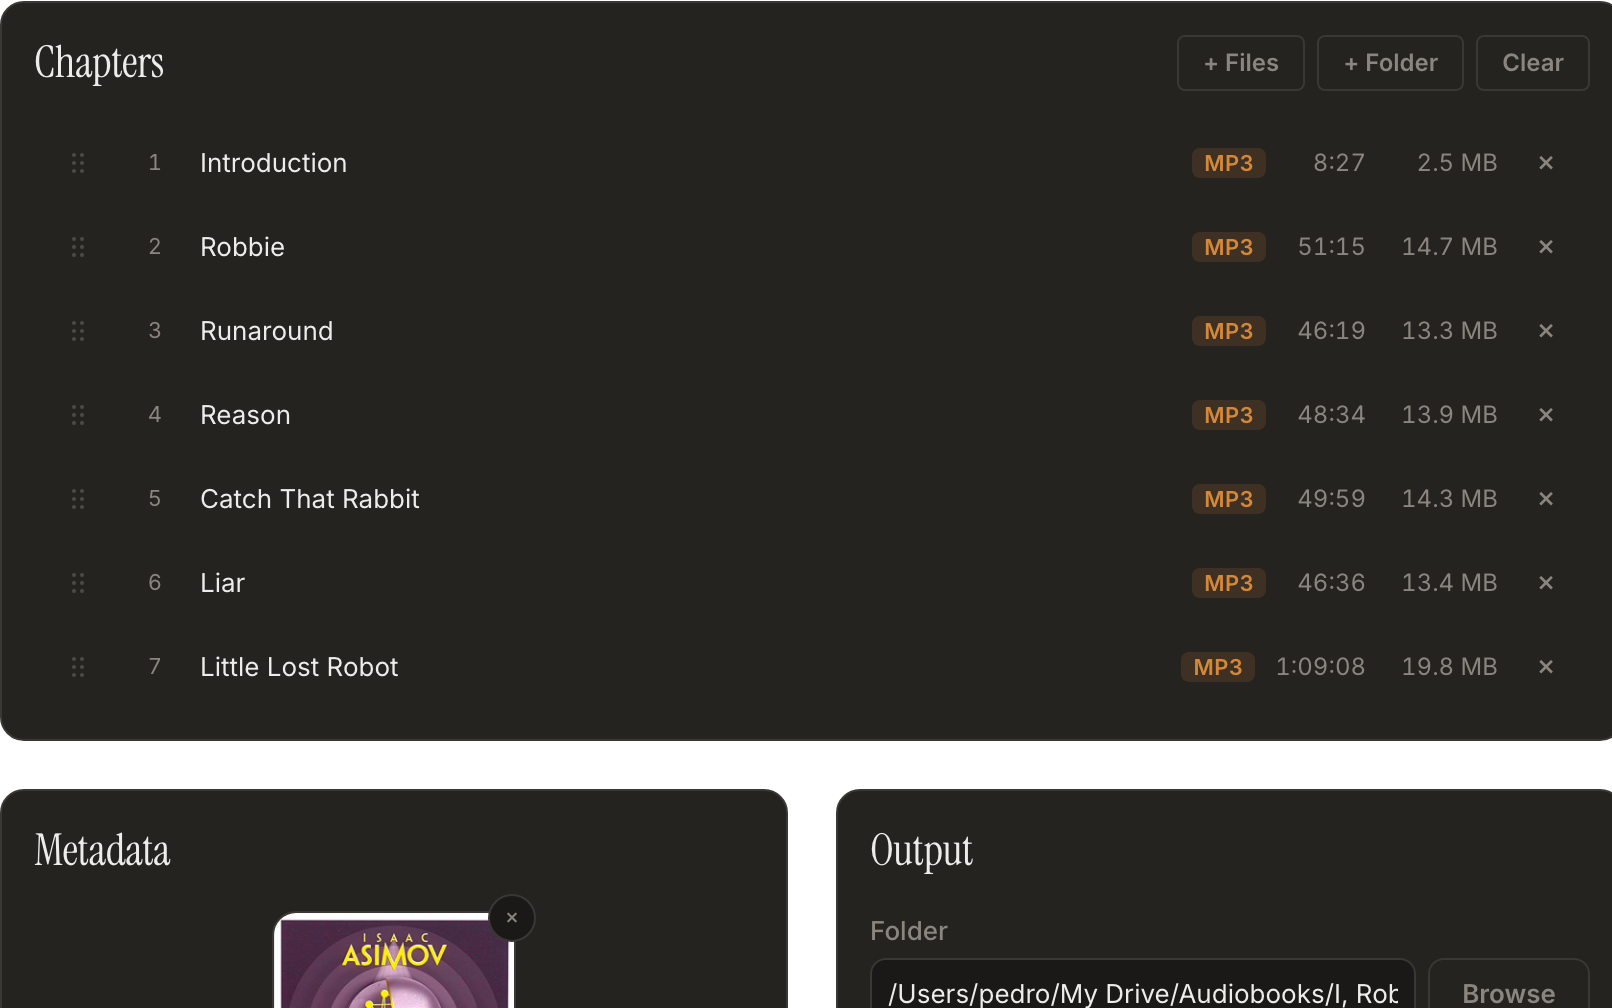
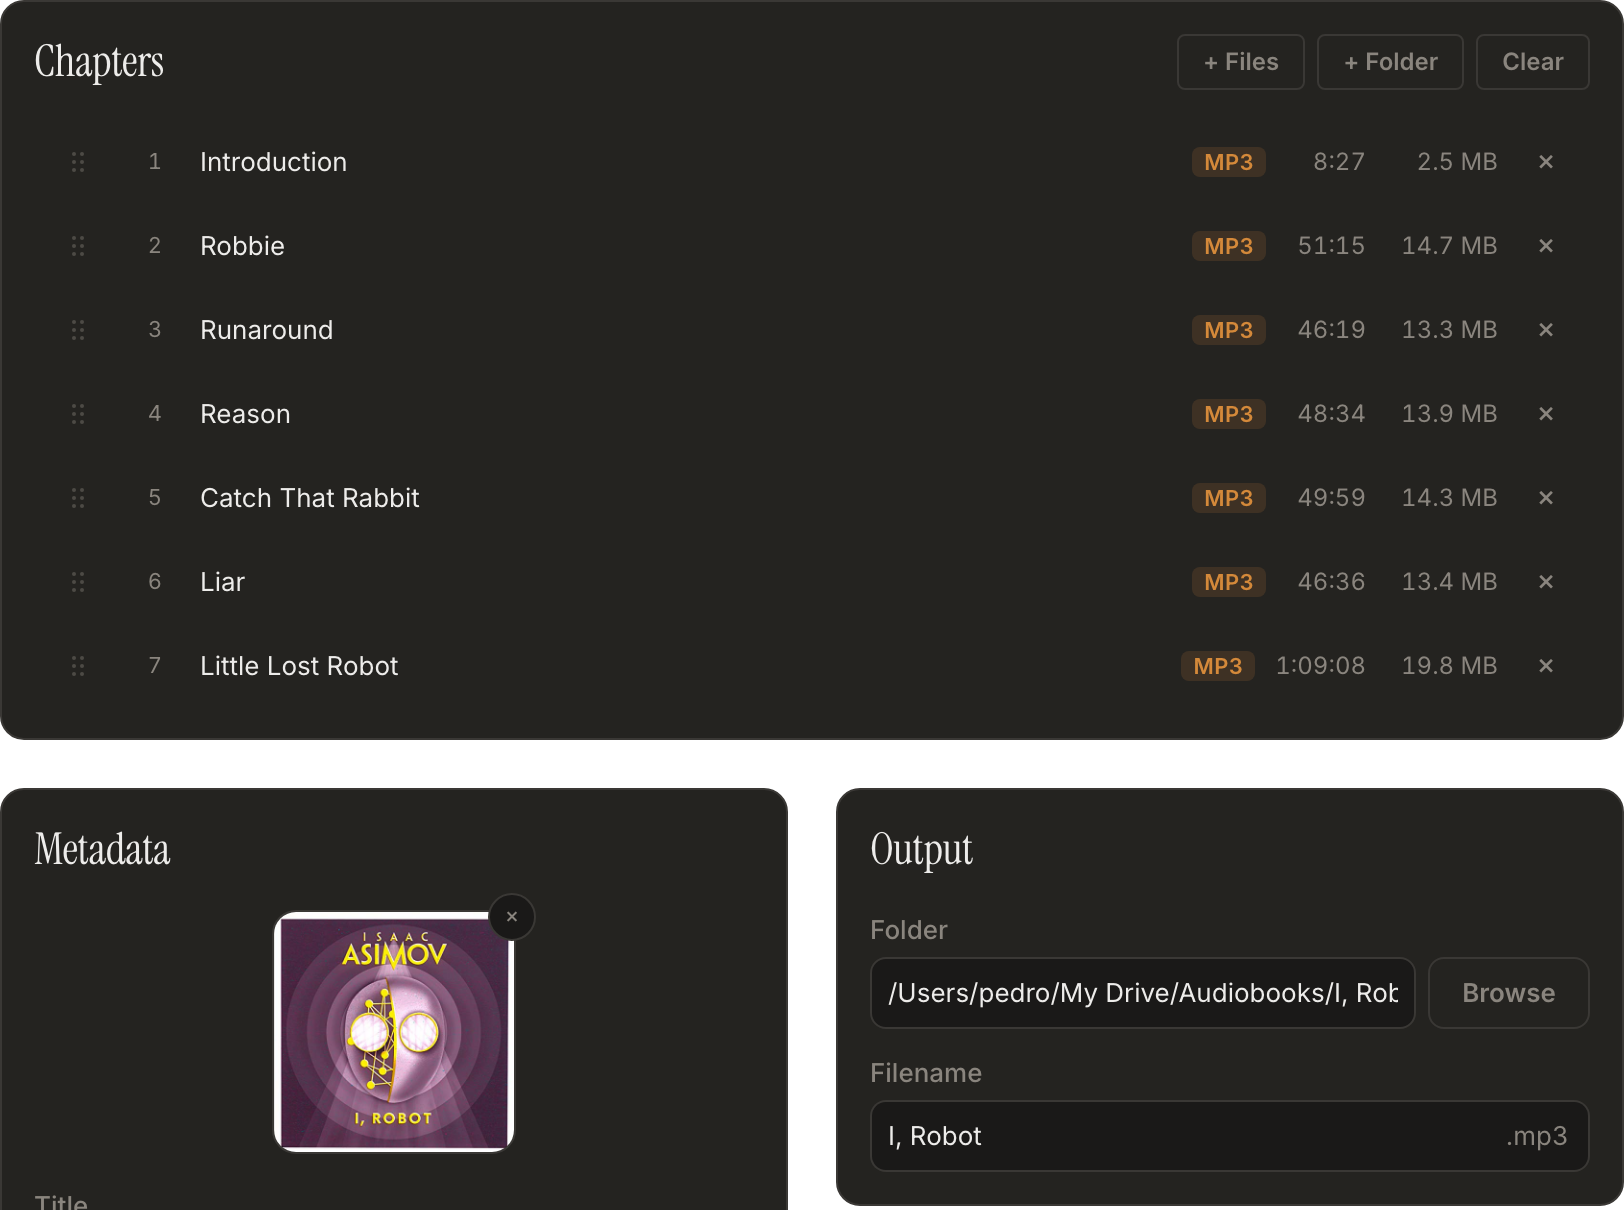
landing: fix the shot's right-edge crop, longer fade, translucent bands
- The crop was 1612px wide when the panels actually span 1624px, so ~12px
  was sliced off the right. Measured the render's real alpha bounds rather
  than trusting the layout numbers, which came from an iframe whose
  scrollbar shifted things.
- Crop is ~20% taller and the mask holds its sharp region to 57% instead of
  68%, so the fade itself is longer and more of the panels below show
  through it.
- .section-alt was an opaque --surface fill, which hid the fixed radial
  gradient behind it. It is now a translucent veil token, so the gradient
  stays visible through those bands as they scroll past.

Claude-Session: https://claude.ai/code/session_01AAFCx8UhuFkVpg59fSWA9M

diff --git a/landing/styles.css b/landing/styles.css
@@ -19,6 +19,7 @@
   --bg: #FAFAF8;
   --bg-elev: #FFFFFF;
   --surface: #F2F0EC;
+  --alt-veil: rgba(0, 0, 0, 0.035);
   --surface-hover: #EAE7E1;
   --border: #E2DFD9;
   --text: #1A1918;
@@ -62,6 +63,7 @@
     --bg: #131211;
     --bg-elev: #1A1918;
     --surface: #1E1D1B;
+    --alt-veil: rgba(255, 255, 255, 0.04);
     --surface-hover: #292724;
     --border: #322F2B;
     --text: #F4F2EF;
@@ -231,7 +233,12 @@ section > * {
   margin-inline: auto;
 }
 
-.section-alt { background: var(--surface); border-top: 1px solid var(--border); }
+.section-alt {
+  /* Translucent, not an opaque fill - lets the radial gradient show through
+     as the section scrolls past the top of the viewport. */
+  background: var(--alt-veil);
+  border-top: 1px solid var(--border);
+}
 
 .section-head { text-align: center; margin-bottom: var(--gap-head); }
 
@@ -297,9 +304,9 @@ section > * {
    cropped. The radius sits on the image itself, so it rounds the window's
    own edges instead of slicing across them. */
 .hero-shot {
-  /* 806px shows the shot at 1:1, so its text matches the app's own size. */
+  /* 812px shows the shot at 1:1, so its text matches the app's own size. */
   margin: clamp(48px, 8vh, 72px) auto 0;
-  max-width: 806px;
+  max-width: 812px;
 }
 .hero-shot img {
   display: block;
@@ -308,8 +315,8 @@ section > * {
   /* The panels carry their own corners and the gaps between them are
      transparent, so the page background shows through. No radius here -
      it would round the panel corners a second time. */
-  -webkit-mask-image: linear-gradient(to bottom, #000 0%, #000 68%, transparent 100%);
-          mask-image: linear-gradient(to bottom, #000 0%, #000 68%, transparent 100%);
+  -webkit-mask-image: linear-gradient(to bottom, #000 0%, #000 57%, transparent 100%);
+          mask-image: linear-gradient(to bottom, #000 0%, #000 57%, transparent 100%);
 }
 
 /* Download group inside hero */

diff --git a/landing/index.html b/landing/index.html
@@ -75,7 +75,7 @@
       <figure class="hero-shot">
         <img class="reveal-load" data-reveal-delay="250" src="app-screenshot.png"
              alt="Bind it with an audiobook loaded: seven chapters listed with their durations and file sizes, and the cover art below."
-             loading="lazy" width="1612" height="1008">
+             loading="lazy" width="1624" height="1210">
       </figure>
     </section>
 
